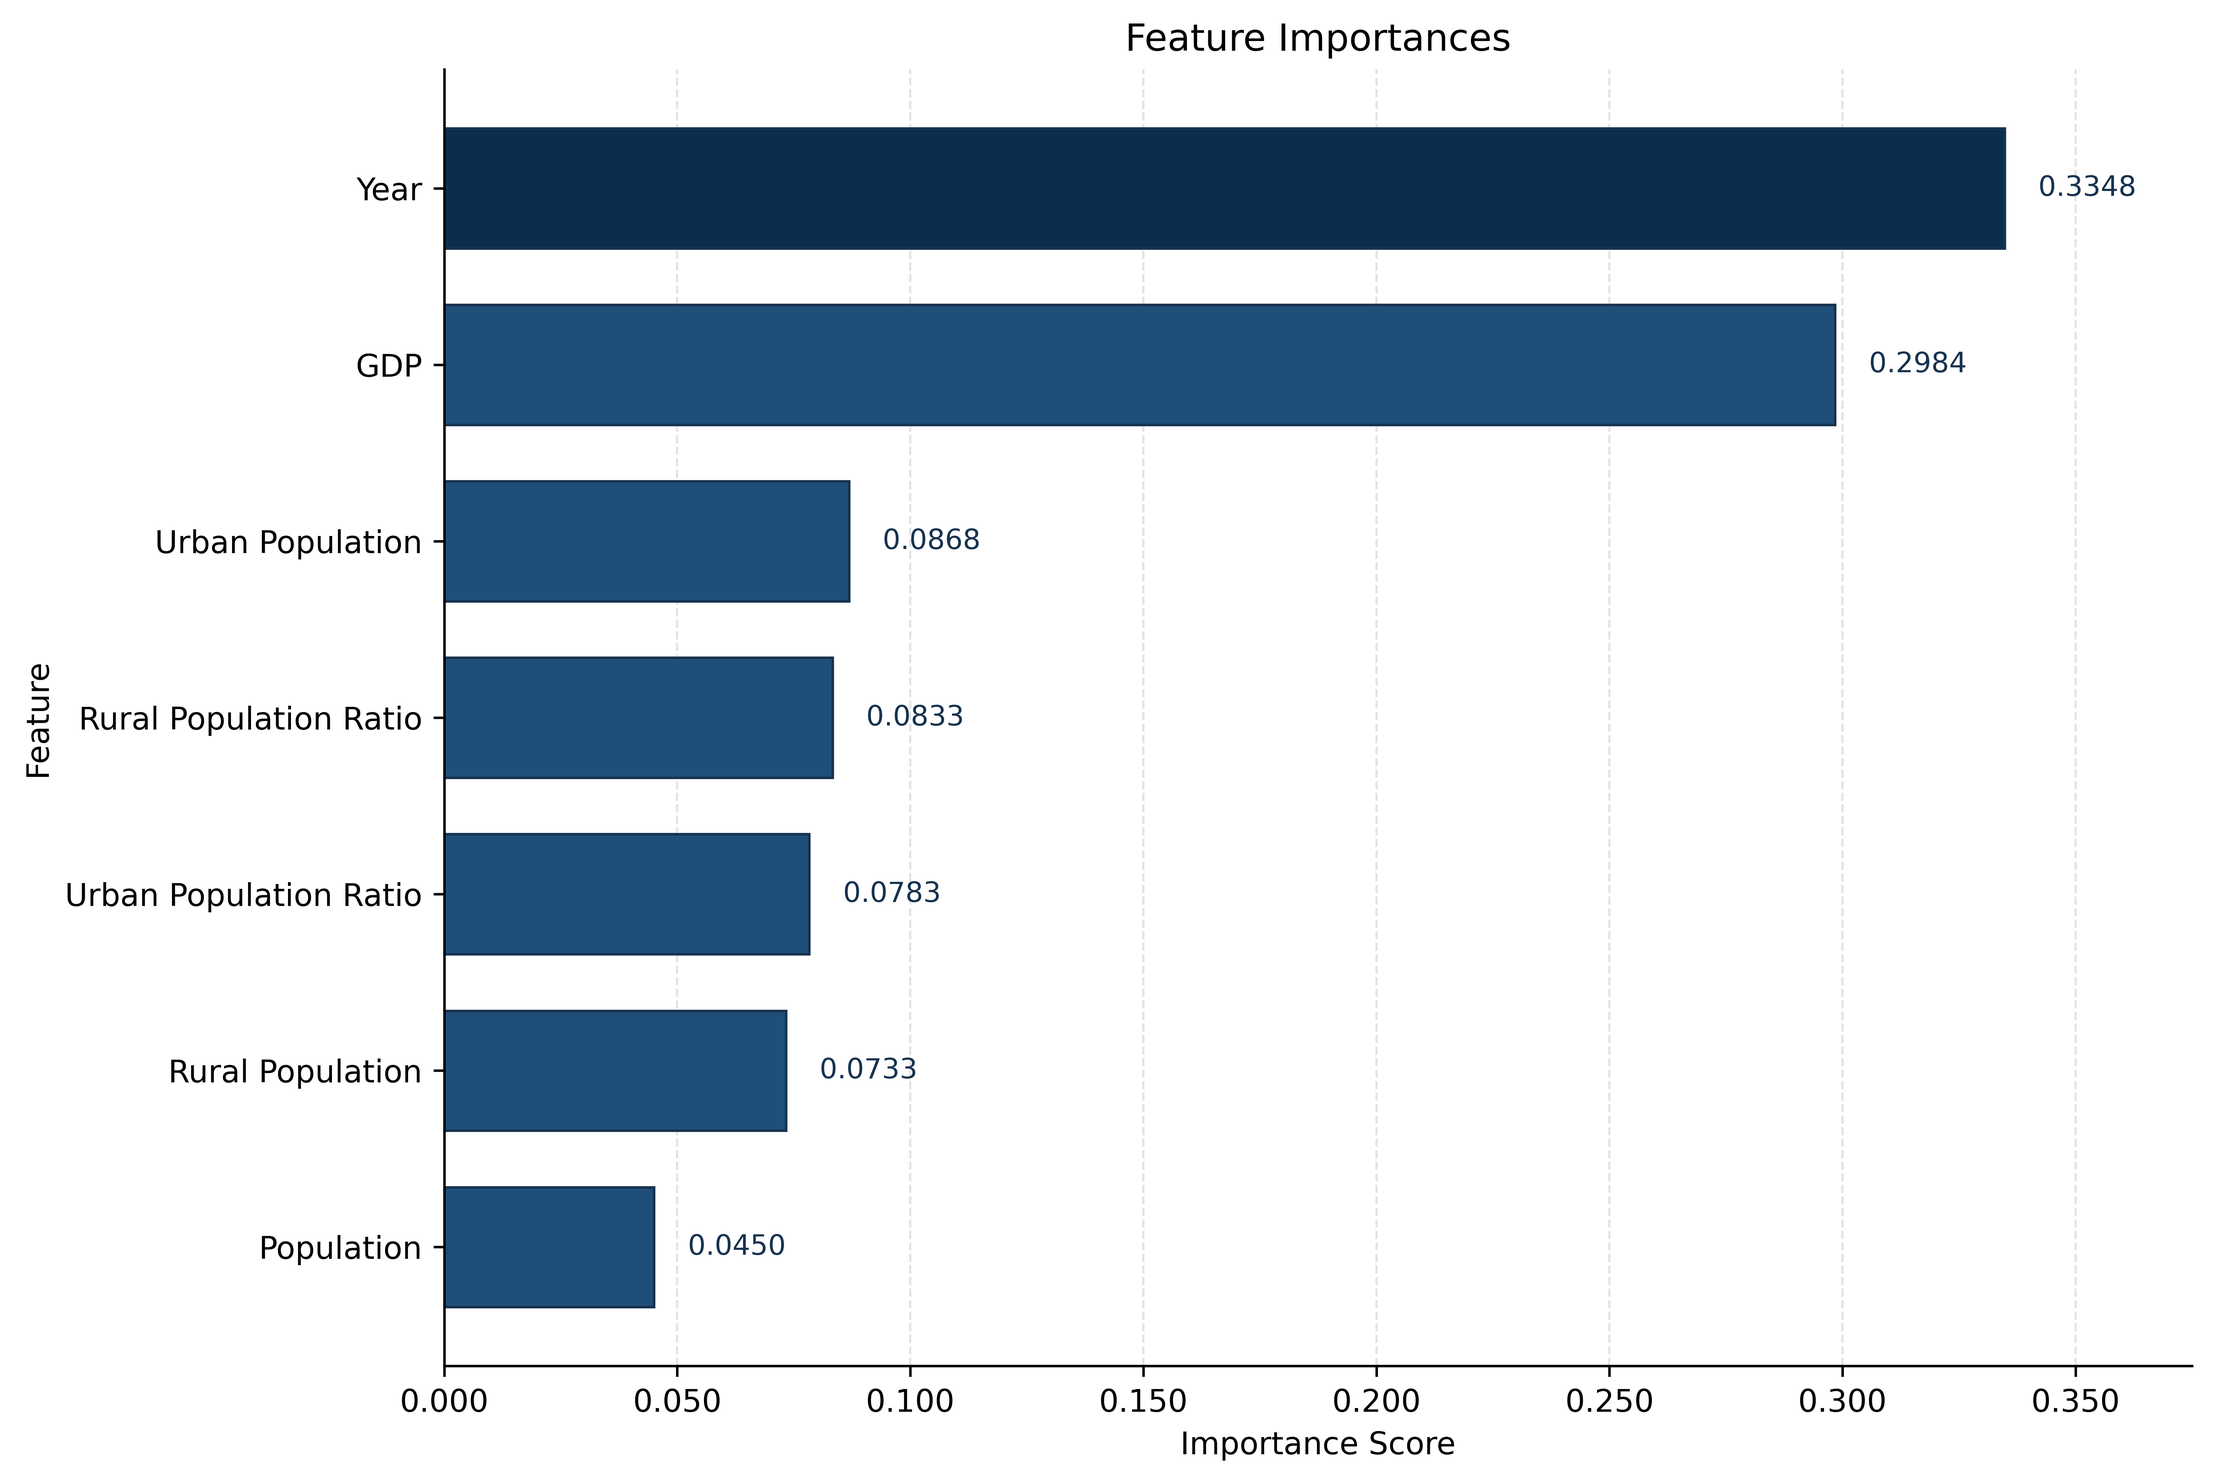
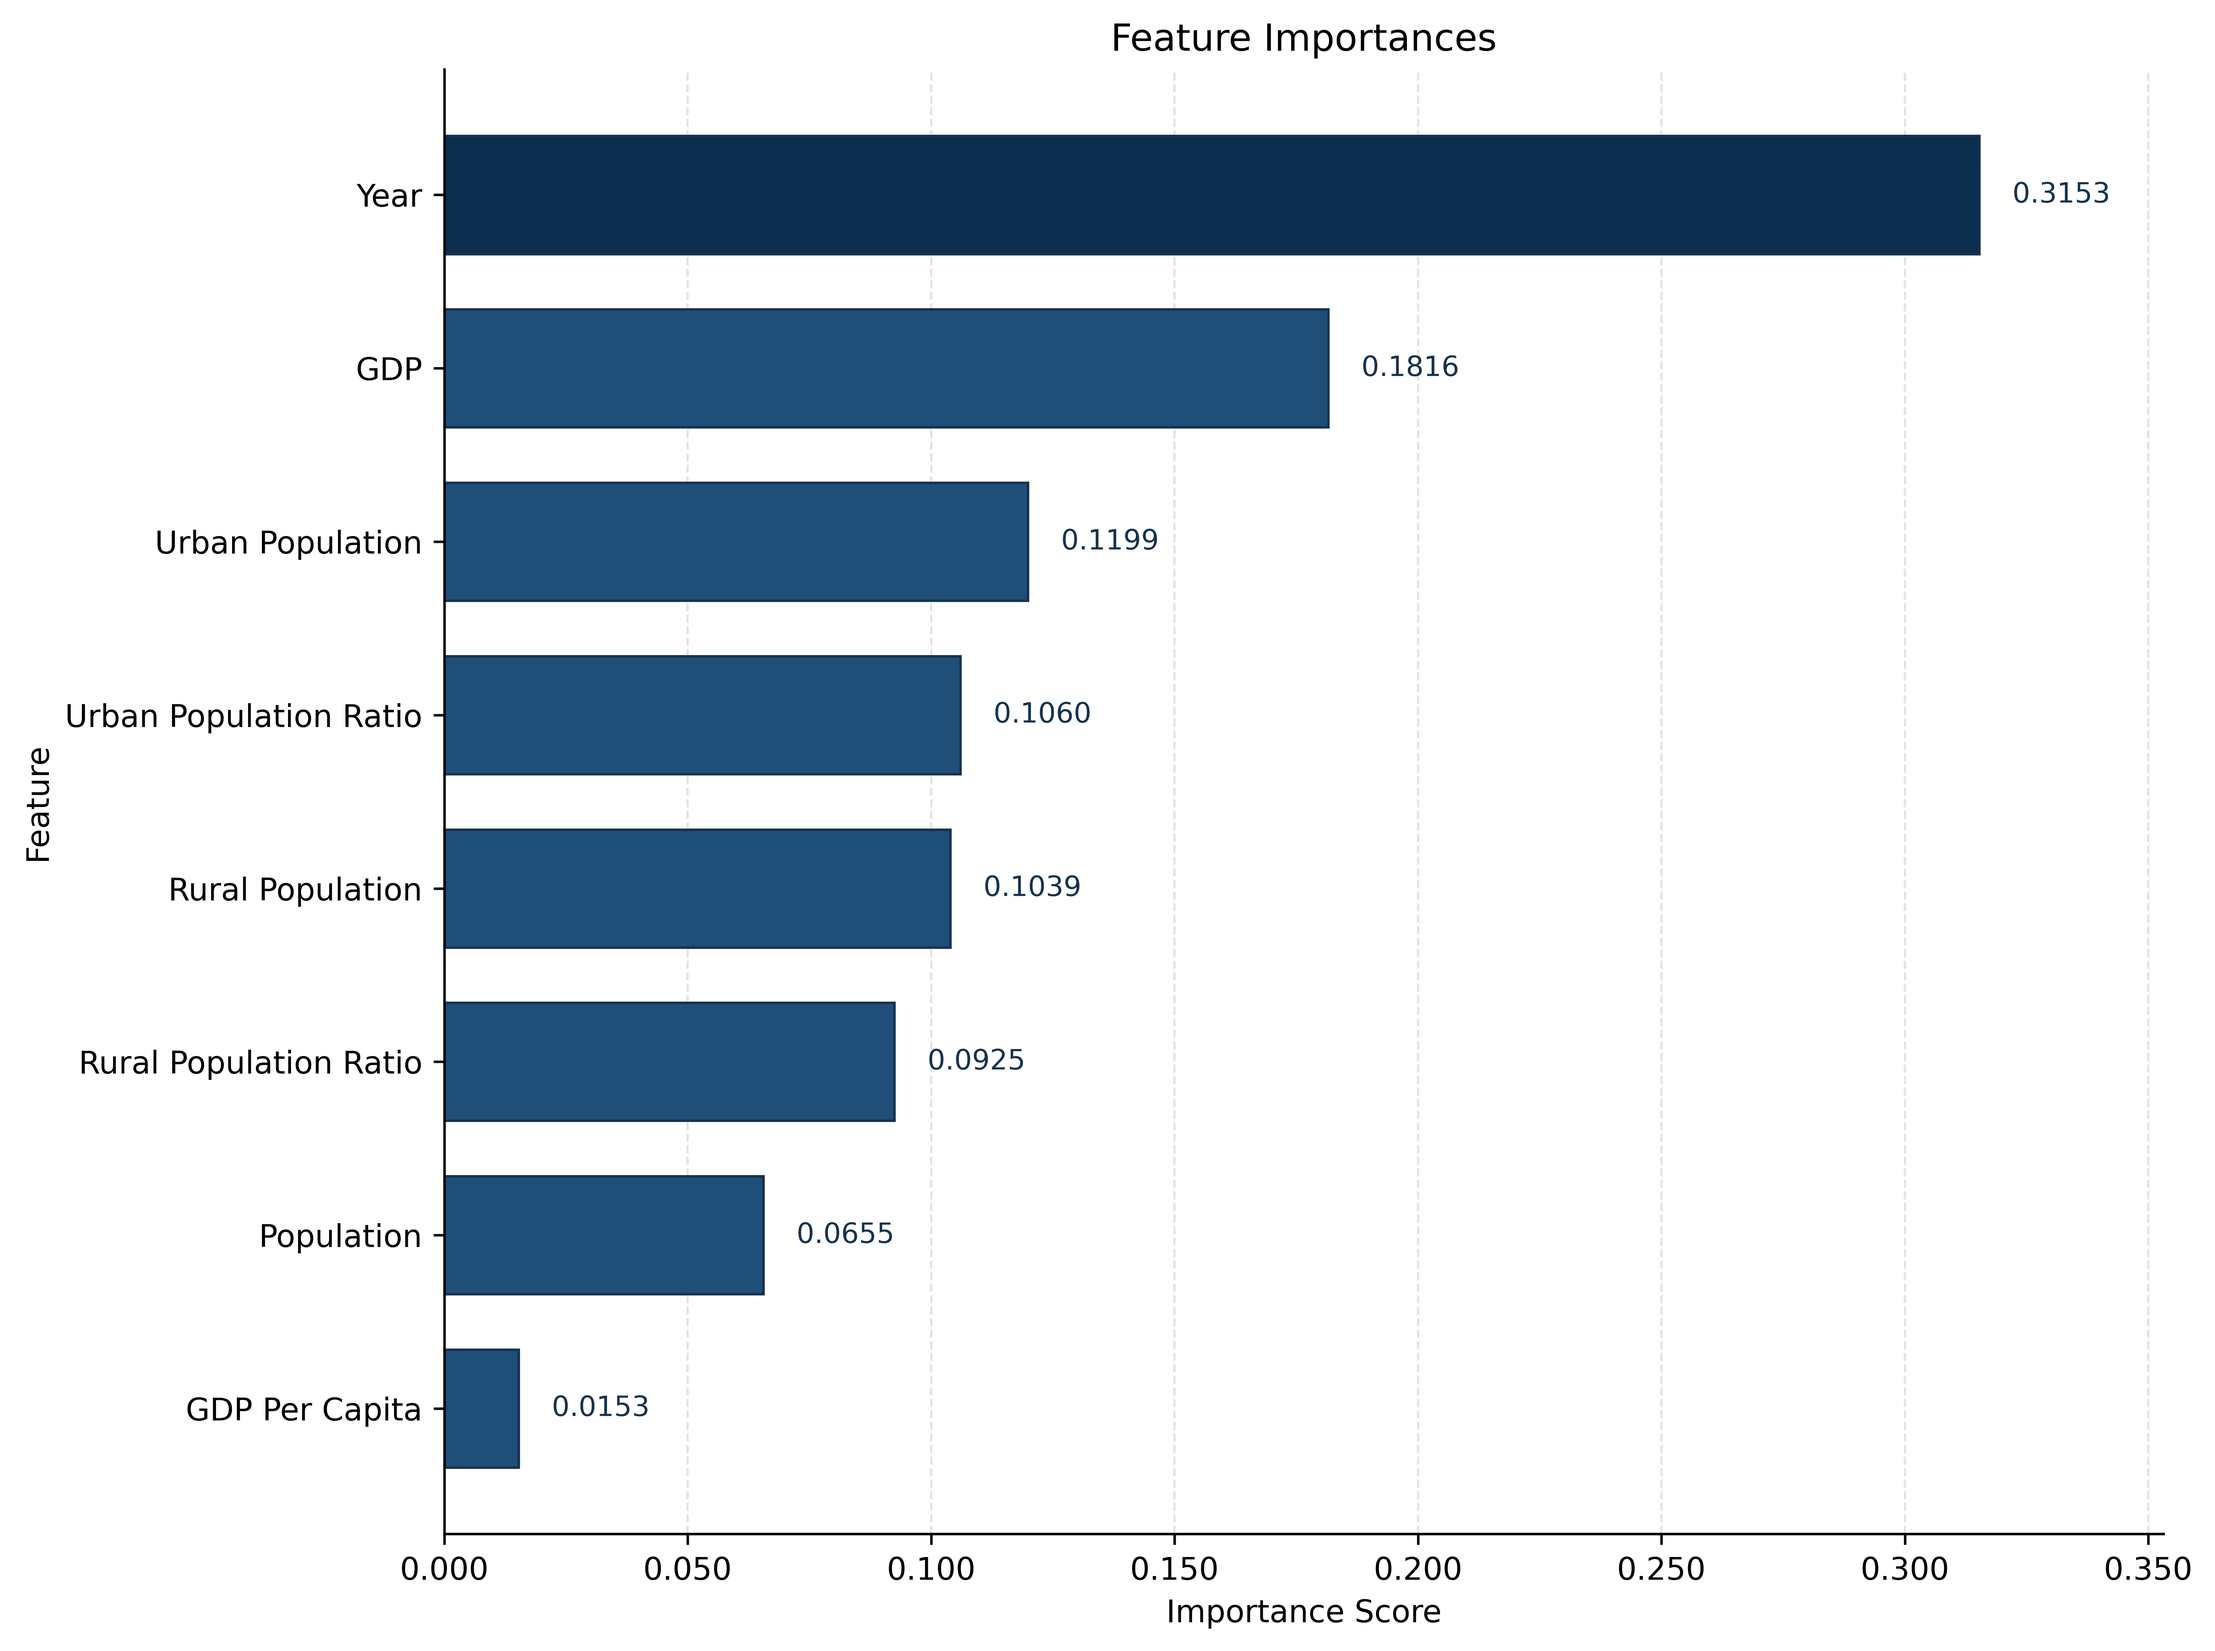
fix: update tables

diff --git a/paper/src/4_experiments/tables/nn_forecasting_metrics.tex b/paper/src/4_experiments/tables/nn_forecasting_metrics.tex
@@ -3,15 +3,15 @@
 	\caption{\centering Neural-network forecasting performance for plastic waste generation on the \texttt{PWDrivers} dataset.}
 	\begin{tabular}{@{}lcccccc@{}}
 		\toprule
-		\textbf{Experiment} & \(r_c\) & \textbf{MAE}          & \textbf{RMSE}         & $\mathbf{R^2}$ & \textbf{WAPE} & \textbf{MAPE} \\
+		\textbf{Experiment} & \(r_c\) & \textbf{MAE}          & \textbf{RMSE}         & $\mathbf{R^2}$ & \textbf{WAPE} & \textbf{sMAPE} \\
 		\midrule
 		\multirow{6}{*}{NN Forecasting}
-		                    & 0.1     & \(5.870 \times 10^5\) & \(6.899 \times 10^5\) & -0.004         & 98.92\%       & 3255.66\%     \\
-		                    & 0.2     & \(4.620 \times 10^5\) & \(5.313 \times 10^5\) & 0.059          & 103.24\%      & 6177.17\%     \\
-		                    & 0.3     & \(2.404 \times 10^5\) & \(3.083 \times 10^5\) & 0.543          & 77.34\%       & 3271.28\%     \\
-		                    & 0.4     & \(1.353 \times 10^5\) & \(2.697 \times 10^5\) & 0.593          & 48.56\%       & 770.43\%      \\
-		                    & 0.45    & \(9.609 \times 10^4\) & \(1.850 \times 10^5\) & 0.561          & 41.94\%       & 84.87\%       \\
-		                    & 0.5     & \(1.058 \times 10^5\) & \(1.822 \times 10^5\) & 0.582          & 44.56\%       & 270.42\%      \\
+		                    & 0.1     & \(3.363 \times 10^6\) & \(8.147 \times 10^6\) & 0.213          & 99.07\%       & 133.19\%      \\
+		                    & 0.2     & \(1.489 \times 10^6\) & \(4.169 \times 10^6\) & 0.653          & 75.91\%       & 114.34\%      \\
+		                    & 0.3     & \(1.506 \times 10^5\) & \(2.212 \times 10^5\) & 0.357          & 77.89\%       & 112.18\%      \\
+		                    & 0.4     & \(8.387 \times 10^4\) & \(1.343 \times 10^5\) & 0.642          & 42.06\%       & 56.42\%       \\
+		                    & 0.45    & \(8.017 \times 10^4\) & \(1.614 \times 10^5\) & 0.655          & 40.75\%       & 59.00\%       \\
+		                    & 0.5     & \(1.049 \times 10^5\) & \(1.660 \times 10^5\) & 0.602          & 53.00\%       & 92.78\%       \\
 		\hline
 	\end{tabular}
 	\label{tab:nn_forecasting_metrics}

diff --git a/paper/src/4_experiments/tables/multivariate_forecasting_slovenia_metrics.tex b/paper/src/4_experiments/tables/multivariate_forecasting_slovenia_metrics.tex
@@ -5,9 +5,9 @@
 		\toprule
 		\textbf{Experiment}                & \textbf{MAE}                   & \textbf{RMSE}                  & \textbf{WAPE}       \\
 		\midrule
-		NN Forecasting                     & \(7.262 \times 10^3\)          & \(8.274 \times 10^3\)          & 11.28\%             \\
 		GPR                                & \(1.090 \times 10^4\)          & \(1.121 \times 10^4\)          & 16.94\%             \\
 		\textbf{SVR}                       & \(\mathbf{5.580 \times 10^3}\) & \(\mathbf{7.157 \times 10^3}\) & \(\mathbf{8.67}\)\% \\
+		NN Forecasting                     & \(1.129 \times 10^4\)          & \(1.217 \times 10^4\)          & 17.44\%             \\
 		\hline
 	\end{tabular}
 	\label{tab:multivariate_forecasting_slovenia_metrics}

diff --git a/paper/src/4_experiments/tables/multivariate_forecasting_japan_metrics.tex b/paper/src/4_experiments/tables/multivariate_forecasting_japan_metrics.tex
@@ -7,7 +7,7 @@
 		\midrule
 		GPR                         & \(4.549 \times 10^5\)          & \(4.562 \times 10^5\)          & 11.14\%             \\
 		SVR                         & \(4.782 \times 10^5\)          & \(4.792 \times 10^5\)          & 11.71\%             \\
-		\textbf{NN Forecasting}     & \(\mathbf{3.943 \times 10^5}\) & \(\mathbf{3.957 \times 10^5}\) & \(\mathbf{9.65}\)\% \\
+		\textbf{NN Forecasting}     & \(\mathbf{2.658 \times 10^5}\) & \(\mathbf{3.000 \times 10^5}\) & \(\mathbf{5.86}\)\% \\
 		\hline
 	\end{tabular}
 	\label{tab:multivariate_forecasting_japan_metrics}
